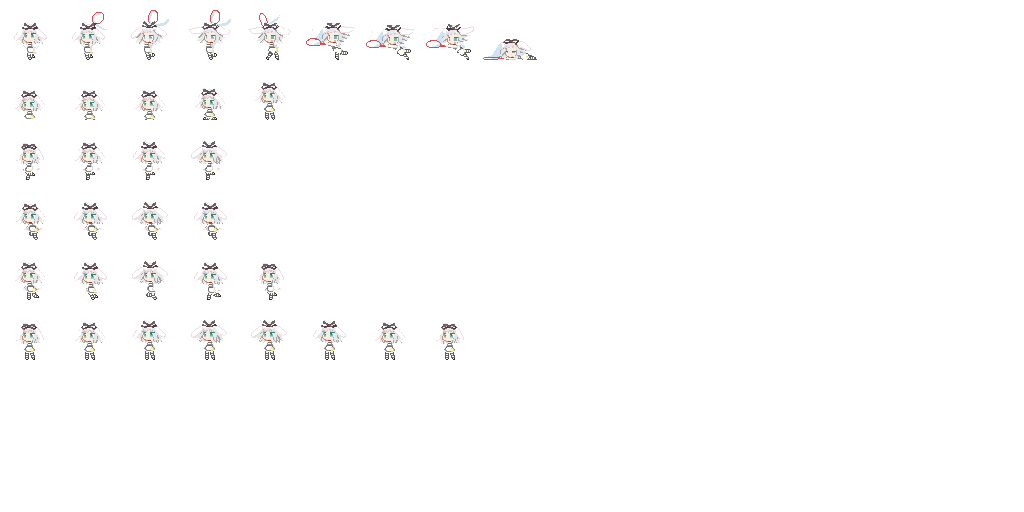
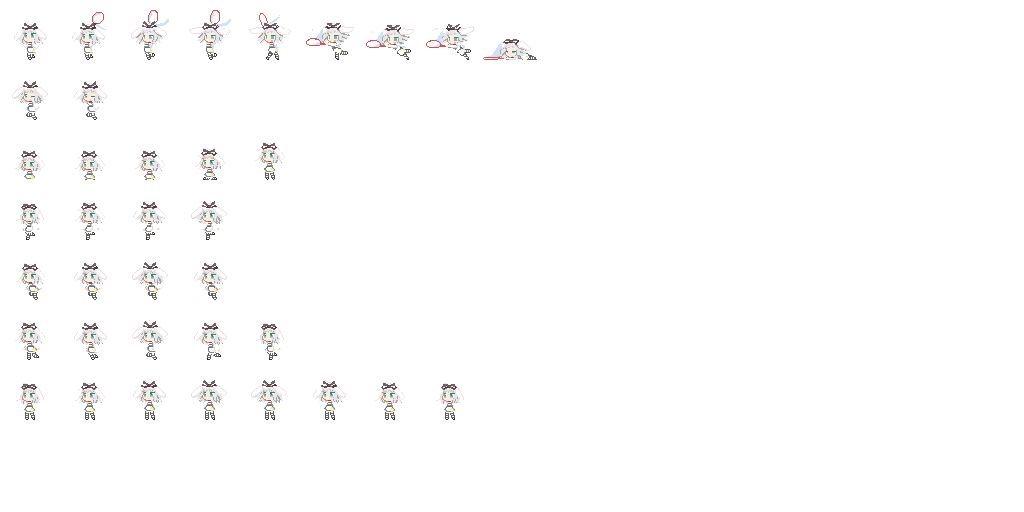
Add hurt state, change entity collision conditions
Every entity now checks against every other entity (starting from j = 0
instead of i + 1). This is because there was a bug where you would not
trigger collisions if you were not moving, and the other entity was
after you in the update list. Now, we skip checking collision on all
non-moving entities, and have each *moving* entity check collision on
everyone else.

diff --git a/game/irisu.cpp b/game/irisu.cpp
@@ -18,18 +18,20 @@ enum IrisuState {
     JUMP,
     FALL,
     DIVE,
+    HURT,
     LAY_DOWN,
     GET_UP_SLOW,
     DIVE_BOOST
 };
 
 static u32 irisu_state = IrisuState::IDLE;
-static Ichigo::Animation irisu_idle = {};
-static Ichigo::Animation irisu_walk = {};
-static Ichigo::Animation irisu_jump = {};
-static Ichigo::Animation irisu_fall = {};
-static Ichigo::Animation irisu_dive = {};
-static Ichigo::Animation irisu_lay_down = {};
+static Ichigo::Animation irisu_idle        = {};
+static Ichigo::Animation irisu_walk        = {};
+static Ichigo::Animation irisu_jump        = {};
+static Ichigo::Animation irisu_fall        = {};
+static Ichigo::Animation irisu_dive        = {};
+static Ichigo::Animation irisu_hurt        = {};
+static Ichigo::Animation irisu_lay_down    = {};
 static Ichigo::Animation irisu_get_up_slow = {};
 
 static Ichigo::TextureID irisu_texture_id = 0;
@@ -38,11 +40,18 @@ static Ichigo::AudioID boo_womp_id = {};
 
 static void on_collide(Ichigo::Entity *irisu, Ichigo::Entity *other, Vec2<f32> normal, Vec2<f32> collision_pos) {
     ICHIGO_INFO("IRISU collide with %s: normal=%f,%f pos=%f,%f", other->name, normal.x, normal.y, collision_pos.x, collision_pos.y);
-    if (normal.y == -1.0f && std::strcmp(other->name, "gert") == 0) {
-        ICHIGO_INFO("Bounce!");
-        irisu->velocity.y -= 15.0f;
-        Ichigo::kill_entity(other->id);
-        Ichigo::Mixer::play_audio_oneshot(boo_womp_id, 1.0f, 1.0f, 1.0f);
+
+    if (std::strcmp(other->name, "gert") == 0 && irisu_state != HURT) {
+        if (normal.y == -1.0f) {
+            irisu->velocity.y -= 15.0f;
+            Ichigo::kill_entity(other->id);
+            Ichigo::Mixer::play_audio_oneshot(boo_womp_id, 1.0f, 1.0f, 1.0f);
+        } else {
+            irisu->acceleration = {0.0f, 0.0f};
+            irisu->velocity.y = -5.0f;
+            irisu->velocity.x = 5.0f * (FLAG_IS_SET(irisu->flags, Ichigo::EF_FLIP_H) ? -1 : 1);
+            irisu_state = HURT;
+        }
     }
 }
 
@@ -61,28 +70,28 @@ void Irisu::init(Ichigo::Entity *entity) {
     entity->collide_proc      = on_collide;
 
     irisu_idle.tag                 = IrisuState::IDLE;
-    irisu_idle.cell_of_first_frame = 5 * 17;
+    irisu_idle.cell_of_first_frame = 6 * 17;
     irisu_idle.cell_of_last_frame  = irisu_idle.cell_of_first_frame + 7;
     irisu_idle.cell_of_loop_start  = irisu_idle.cell_of_first_frame;
     irisu_idle.cell_of_loop_end    = irisu_idle.cell_of_last_frame;
     irisu_idle.seconds_per_frame   = 0.08f;
 
     irisu_walk.tag                 = IrisuState::WALK;
-    irisu_walk.cell_of_first_frame = 4 * 17;
+    irisu_walk.cell_of_first_frame = 5 * 17;
     irisu_walk.cell_of_last_frame  = irisu_walk.cell_of_first_frame + 4;
     irisu_walk.cell_of_loop_start  = irisu_walk.cell_of_first_frame;
     irisu_walk.cell_of_loop_end    = irisu_walk.cell_of_last_frame;
     irisu_walk.seconds_per_frame   = 0.1f;
 
     irisu_jump.tag                 = IrisuState::JUMP;
-    irisu_jump.cell_of_first_frame = 3 * 17;
+    irisu_jump.cell_of_first_frame = 4 * 17;
     irisu_jump.cell_of_last_frame  = irisu_jump.cell_of_first_frame + 3;
     irisu_jump.cell_of_loop_start  = irisu_jump.cell_of_first_frame + 1;
     irisu_jump.cell_of_loop_end    = irisu_jump.cell_of_last_frame;
     irisu_jump.seconds_per_frame   = 0.08f;
 
     irisu_fall.tag                 = IrisuState::FALL;
-    irisu_fall.cell_of_first_frame = 2 * 17;
+    irisu_fall.cell_of_first_frame = 3 * 17;
     irisu_fall.cell_of_last_frame  = irisu_fall.cell_of_first_frame + 3;
     irisu_fall.cell_of_loop_start  = irisu_fall.cell_of_first_frame + 1;
     irisu_fall.cell_of_loop_end    = irisu_fall.cell_of_last_frame;
@@ -95,6 +104,13 @@ void Irisu::init(Ichigo::Entity *entity) {
     irisu_dive.cell_of_loop_end    = irisu_dive.cell_of_last_frame;
     irisu_dive.seconds_per_frame   = 0.08f;
 
+    irisu_hurt.tag                 = IrisuState::HURT;
+    irisu_hurt.cell_of_first_frame = 1 * 17;
+    irisu_hurt.cell_of_last_frame  = irisu_hurt.cell_of_first_frame + 1;
+    irisu_hurt.cell_of_loop_start  = irisu_hurt.cell_of_first_frame;
+    irisu_hurt.cell_of_loop_end    = irisu_hurt.cell_of_last_frame;
+    irisu_hurt.seconds_per_frame   = 0.08f;
+
     irisu_lay_down.tag                 = IrisuState::LAY_DOWN;
     // The "lay down" cell is one frame after the end of the dive animation.
     irisu_lay_down.cell_of_first_frame = irisu_dive.cell_of_last_frame + 1;
@@ -104,7 +120,7 @@ void Irisu::init(Ichigo::Entity *entity) {
     irisu_lay_down.seconds_per_frame   = 0.08f;
 
     irisu_get_up_slow.tag                 = IrisuState::GET_UP_SLOW;
-    irisu_get_up_slow.cell_of_first_frame = 1 * 17;
+    irisu_get_up_slow.cell_of_first_frame = 2 * 17;
     irisu_get_up_slow.cell_of_last_frame  = irisu_get_up_slow.cell_of_first_frame + 4;
     irisu_get_up_slow.cell_of_loop_start  = irisu_get_up_slow.cell_of_first_frame;
     irisu_get_up_slow.cell_of_loop_end    = irisu_get_up_slow.cell_of_last_frame;
@@ -238,6 +254,22 @@ void Irisu::update(Ichigo::Entity *irisu) {
             if (FLAG_IS_SET(irisu->flags, Ichigo::EF_ON_GROUND)) {
                 irisu_state = LAY_DOWN;
                 maybe_enter_animation(irisu, irisu_lay_down);
+            }
+        } break;
+
+        case HURT: {
+            static f32 hurt_t = 0.0f;
+            maybe_enter_animation(irisu, irisu_hurt);
+
+            if (hurt_t == 0.0f) {
+                hurt_t = 0.6f;
+            } else {
+                hurt_t -= Ichigo::Internal::dt;
+                if (hurt_t <= 0.0f) {
+                    hurt_t = 0.0f;
+                    irisu_state = IDLE;
+                    maybe_enter_animation(irisu, irisu_idle);
+                }
             }
         } break;
 

diff --git a/entity.cpp b/entity.cpp
@@ -196,16 +196,16 @@ Ichigo::EntityMoveResult Ichigo::move_entity_in_world(Ichigo::Entity *entity) {
     // Check entity collisions.
     for (u32 i = 1; i < Ichigo::Internal::entities.size; ++i) {
         Ichigo::Entity &entity = Ichigo::Internal::entities.at(i);
-        if (entity.id.index == 0) {
+        if (entity.id.index == 0 || entity.velocity == Vec2<f32>{0.0f, 0.0f}) {
             continue;
         }
 
         Vec2<f32> centered_entity_p = entity.col.pos + Vec2<f32>{entity.col.w / 2.0f, entity.col.h / 2.0f};
         f32 best_t = 1.0f;
 
-        for (u32 j = i + 1; j < Ichigo::Internal::entities.size; ++j) {
+        for (u32 j = 0; j < Ichigo::Internal::entities.size; ++j) {
             Ichigo::Entity &other_entity = Ichigo::Internal::entities.at(j);
-            if (other_entity.id.index == 0) {
+            if (i == j || other_entity.id.index == 0 || entity.velocity == Vec2<f32>{0.0f, 0.0f}) {
                 continue;
             }
 
